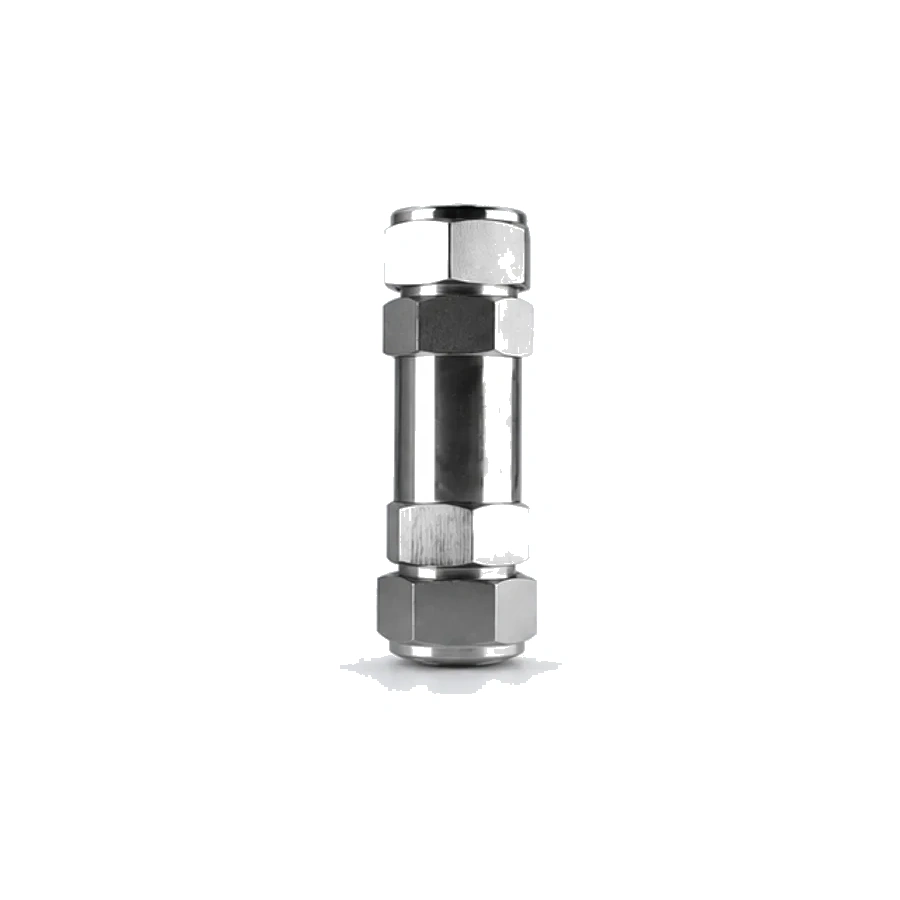
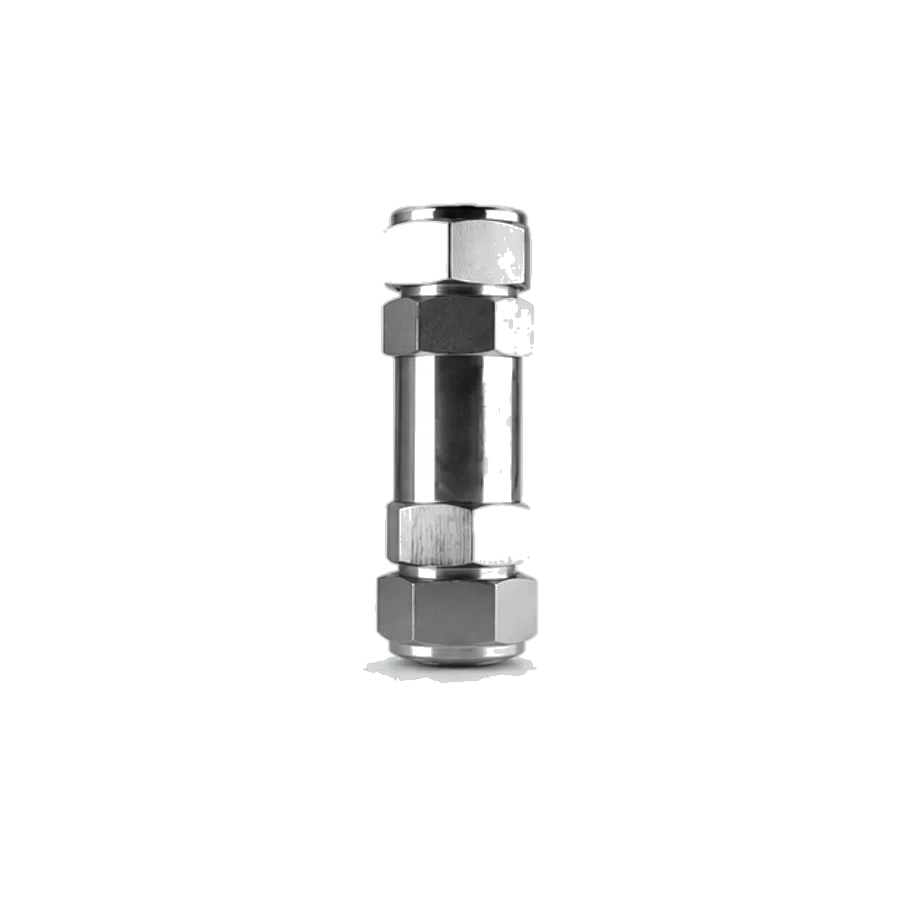
统一配件图片背景展示

diff --git a/src/components/accessories/accessory-cards.tsx b/src/components/accessories/accessory-cards.tsx
@@ -9,8 +9,8 @@ export function AccessoryCategoryCard({ category, locale }: { category: Accessor
   const c = accessoryCopy[locale];
   return (
     <Link className="card group flex h-full flex-col overflow-hidden bg-white transition hover:border-accent/50 hover:shadow-lg" href={localizedPath(locale, `/accessories/${category.slug}`)}>
-      <div className="grid aspect-[4/3] place-items-center border-b border-line bg-white p-4">
-        <img className="accessory-category-image max-h-[92%] max-w-[92%] object-contain transition duration-300 group-hover:scale-[1.02]" src={category.image} alt={category.title[locale]} />
+      <div className="grid aspect-[4/3] place-items-center border-b border-line bg-[#f7fafc] p-4">
+        <img className="accessory-category-image max-h-[94%] max-w-[94%] object-contain mix-blend-multiply transition duration-300 group-hover:scale-[1.02]" src={category.image} alt={category.title[locale]} />
       </div>
       <div className="flex flex-1 flex-col p-4">
         <h3 className="text-lg font-black leading-6">{category.title[locale]}</h3>
@@ -26,8 +26,8 @@ export function AccessoryProductCard({ product, locale }: { product: AccessoryPr
   const path = `/accessories/${product.categorySlug}/${product.slug}`;
   return (
     <Link className="card group flex h-full flex-col overflow-hidden transition hover:border-accent/50 hover:shadow-lg" href={localizedPath(locale, path)}>
-      <div className="grid aspect-[4/3] place-items-center overflow-hidden border-b border-line bg-white p-4">
-        <img className="accessory-product-image max-h-[92%] max-w-[92%] object-contain transition duration-300 group-hover:scale-[1.02]" src={product.image} alt={product.title[locale]} />
+      <div className="grid aspect-[4/3] place-items-center overflow-hidden border-b border-line bg-[#f7fafc] p-4">
+        <img className="accessory-product-image max-h-[94%] max-w-[94%] object-contain mix-blend-multiply transition duration-300 group-hover:scale-[1.02]" src={product.image} alt={product.title[locale]} />
       </div>
       <div className="flex flex-1 flex-col p-5">
         <p className="text-xs font-black uppercase text-accent">{product.model}</p>

diff --git a/src/components/accessories/accessories-home-section.tsx b/src/components/accessories/accessories-home-section.tsx
@@ -20,9 +20,9 @@ export function AccessoriesHomeSection({ locale }: { locale: Locale }) {
               href={localizedPath(locale, `/accessories/${product.categorySlug}/${product.slug}`)}
               key={`${product.categorySlug}-${product.slug}`}
             >
-              <div className="grid aspect-[4/3] place-items-center border border-line bg-[#f7fafc] p-4 shadow-sm transition duration-300 group-hover:border-accent/50 group-hover:shadow-md">
+              <div className="grid aspect-[4/3] place-items-center p-3 transition duration-300">
                 <img
-                  className="max-h-[94%] max-w-[94%] object-contain mix-blend-multiply transition duration-300 group-hover:scale-[1.03]"
+                  className="max-h-[98%] max-w-[98%] object-contain mix-blend-multiply drop-shadow-sm transition duration-300 group-hover:scale-[1.03]"
                   src={product.image}
                   alt={product.title[locale]}
                 />

diff --git a/src/components/accessories/accessory-detail-page.tsx b/src/components/accessories/accessory-detail-page.tsx
@@ -49,8 +49,8 @@ export function AccessoryDetailPage({ category, product, locale }: { category: A
       <section className="section">
         <div className="section-narrow grid gap-8 lg:grid-cols-[380px_1fr]">
           <aside className="card h-fit overflow-hidden lg:sticky lg:top-32">
-            <div className="grid aspect-square place-items-center bg-white p-4">
-              <img className="accessory-detail-image max-h-[92%] max-w-[92%] object-contain" src={product.image} alt={product.title[locale]} />
+            <div className="grid aspect-square place-items-center bg-[#f7fafc] p-4">
+              <img className="accessory-detail-image max-h-[94%] max-w-[94%] object-contain mix-blend-multiply" src={product.image} alt={product.title[locale]} />
             </div>
             <div className="p-6">
               <p className="text-xs font-black uppercase text-accent">{product.model}</p>
